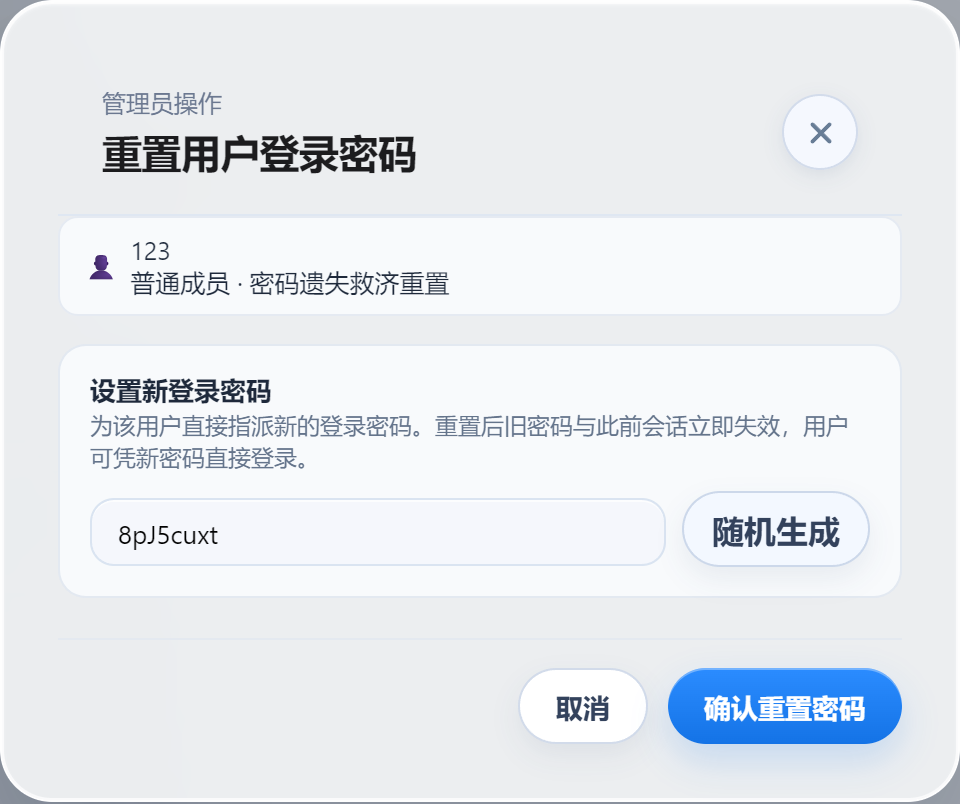
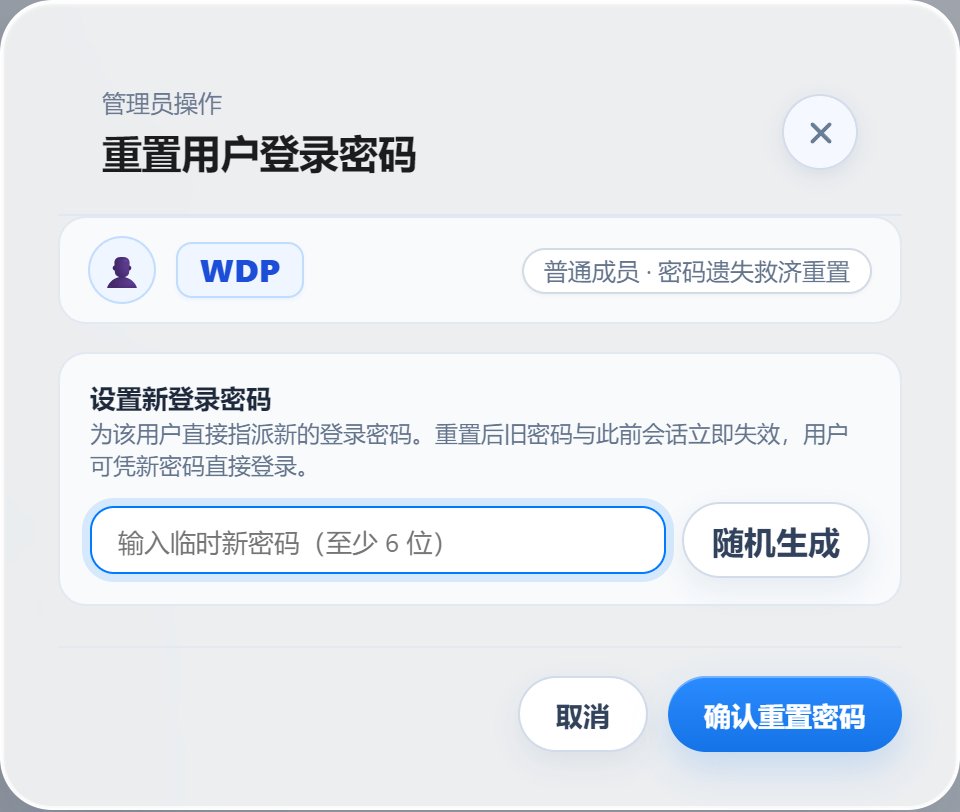
feat(ui): 升级用户账号管理文案与账户名称高亮凸显单行排版

diff --git a/public/styles.css b/public/styles.css
@@ -2006,28 +2006,117 @@ tr:hover .name-cell .star-toggle-btn {
 }
 
 .sec-account-badge-row {
-  display: flex;
-  align-items: center;
-  gap: 6px;
-  background: #f8fafc;
-  border: 1px solid rgba(226, 232, 240, 0.85);
-  border-radius: 10px;
-  padding: 8px 12px;
-  font-size: 12.5px;
+  display: flex !important;
+  align-items: center !important;
+  gap: 8px !important;
+  background: #f8fafc !important;
+  border: 1px solid rgba(226, 232, 240, 0.95) !important;
+  border-radius: 12px !important;
+  padding: 8px 14px !important;
+  font-size: 13px !important;
+  box-sizing: border-box !important;
+  white-space: nowrap !important;
+  flex-wrap: nowrap !important;
 }
 
 .sec-account-badge-label {
-  color: #64748b;
+  color: #64748b !important;
+  font-size: 13px !important;
+  font-weight: 500 !important;
+  white-space: nowrap !important;
+  flex-shrink: 0 !important;
 }
 
 .sec-account-badge-val {
-  color: #0f172a;
-  font-weight: 700;
+  display: inline-flex !important;
+  align-items: center !important;
+  font-size: 15.5px !important;
+  font-weight: 800 !important;
+  color: #1d4ed8 !important;
+  background: #eff6ff !important;
+  border: 1px solid rgba(191, 219, 254, 0.95) !important;
+  padding: 2.5px 11px !important;
+  border-radius: 8px !important;
+  letter-spacing: 0.25px !important;
+  white-space: nowrap !important;
+  flex-shrink: 0 !important;
+  box-shadow: 0 1px 2px rgba(37, 99, 235, 0.05) !important;
+  line-height: 1.35 !important;
 }
 
 .sec-account-badge-tip {
-  color: #94a3b8;
-  font-size: 11.5px;
+  color: #64748b !important;
+  font-size: 12px !important;
+  white-space: nowrap !important;
+  flex-shrink: 0 !important;
+}
+
+/* 管理员重置普通用户密码弹窗内：目标用户身份横向单行高亮卡片 */
+.admin-reset-target-badge {
+  display: flex !important;
+  align-items: center !important;
+  gap: 10px !important;
+  background: #f8fafc !important;
+  border: 1px solid rgba(226, 232, 240, 0.95) !important;
+  border-radius: 14px !important;
+  padding: 9px 14px !important;
+  box-sizing: border-box !important;
+  white-space: nowrap !important;
+  flex-wrap: nowrap !important;
+}
+
+.admin-reset-target-badge .sec-badge-avatar {
+  width: 34px !important;
+  height: 34px !important;
+  border-radius: 50% !important;
+  background: #eff6ff !important;
+  border: 1px solid rgba(191, 219, 254, 0.9) !important;
+  color: #2563eb !important;
+  display: flex !important;
+  align-items: center !important;
+  justify-content: center !important;
+  font-size: 16px !important;
+  flex-shrink: 0 !important;
+}
+
+.admin-reset-target-badge .sec-badge-info {
+  display: flex !important;
+  align-items: center !important;
+  gap: 10px !important;
+  flex: 1 !important;
+  min-width: 0 !important;
+  white-space: nowrap !important;
+  flex-wrap: nowrap !important;
+}
+
+.admin-reset-target-badge .sec-badge-name {
+  display: inline-flex !important;
+  align-items: center !important;
+  font-size: 16px !important;
+  font-weight: 800 !important;
+  color: #1d4ed8 !important;
+  background: #eff6ff !important;
+  border: 1px solid rgba(191, 219, 254, 0.95) !important;
+  padding: 2.5px 11px !important;
+  border-radius: 8px !important;
+  letter-spacing: 0.25px !important;
+  white-space: nowrap !important;
+  flex-shrink: 0 !important;
+  box-shadow: 0 1px 2px rgba(37, 99, 235, 0.05) !important;
+  line-height: 1.35 !important;
+}
+
+.admin-reset-target-badge .sec-badge-role {
+  font-size: 12px !important;
+  color: #64748b !important;
+  background: #ffffff !important;
+  border: 1px solid rgba(203, 213, 225, 0.85) !important;
+  border-radius: 999px !important;
+  padding: 2.5px 10px !important;
+  white-space: nowrap !important;
+  flex-shrink: 0 !important;
+  margin-left: auto !important;
+  box-shadow: 0 1px 2px rgba(15, 23, 42, 0.03) !important;
 }
 
 .sec-amber-btn {

diff --git a/public/index.html b/public/index.html
@@ -169,7 +169,7 @@
           <header class="modal-header">
             <div>
               <p class="eyebrow">管理员入口</p>
-              <h2>用户与空间配额管理</h2>
+              <h2>用户账号与配额管理</h2>
             </div>
             <div class="modal-actions compact">
               <button id="refreshUserQuotasBtn" class="ghost compact" type="button" title="刷新用户列表">刷新</button>
@@ -202,7 +202,7 @@
             </button>
           </header>
 
-          <div class="sec-account-badge-row" style="margin-bottom: 14px;">
+          <div class="sec-account-badge-row admin-reset-target-badge" style="margin-bottom: 14px;">
             <div class="sec-badge-avatar">👤</div>
             <div class="sec-badge-info">
               <div class="sec-badge-name" id="adminResetTargetUsername">username</div>
@@ -612,7 +612,7 @@
                 <svg class="btn-icon" width="15" height="15" style="width:15px;height:15px;flex-shrink:0;" viewBox="0 0 18 18" fill="none" stroke="currentColor" stroke-width="1.6" stroke-linecap="round" stroke-linejoin="round" aria-hidden="true">
                   <path d="M12.5 15.5v-1a3 3 0 0 0-3-3h-4a3 3 0 0 0-3 3v1M7.5 8.5a3 3 0 1 0 0-6 3 3 0 0 0 0 6zM14.5 9.5a2.5 2.5 0 0 0 0-5"/>
                 </svg>
-                <span>用户配额管理</span>
+                <span>用户账号管理</span>
               </button>
               <button id="registrationKeysBtn" class="admin-sub-btn admin-action hidden" type="button">
                 <svg class="btn-icon" width="15" height="15" style="width:15px;height:15px;flex-shrink:0;" viewBox="0 0 18 18" fill="none" stroke="currentColor" stroke-width="1.6" stroke-linecap="round" stroke-linejoin="round" aria-hidden="true">
